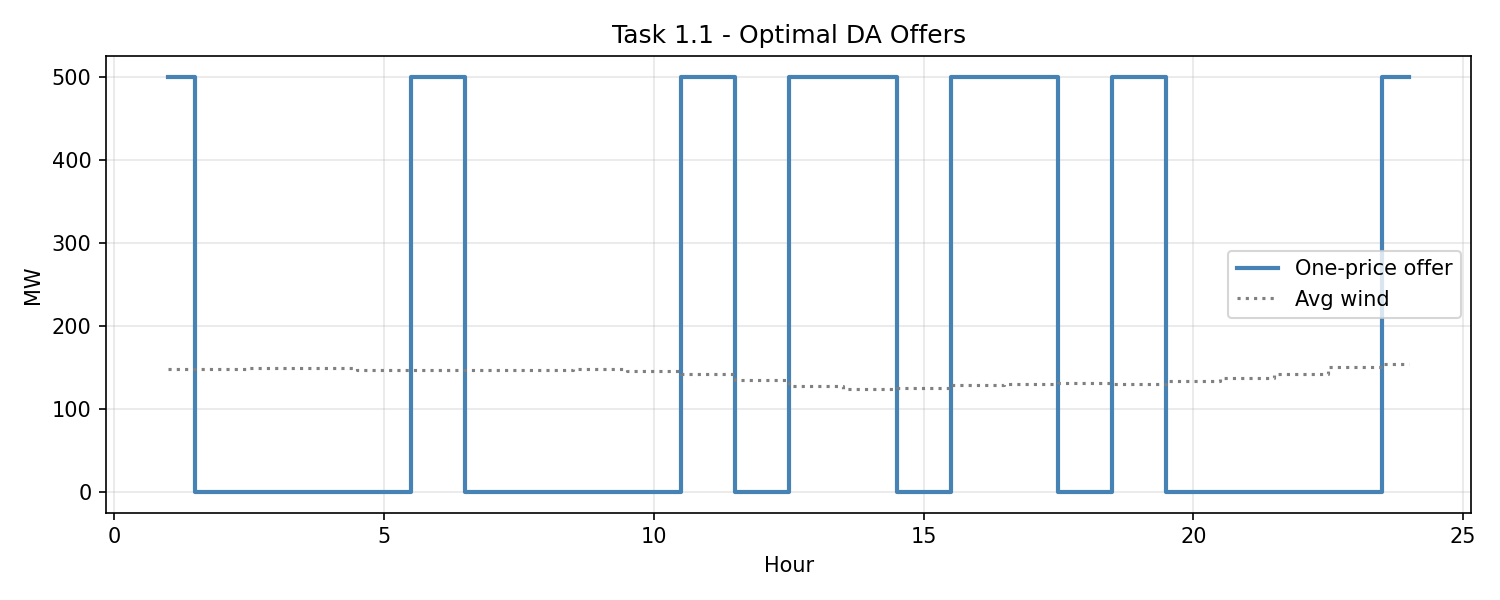
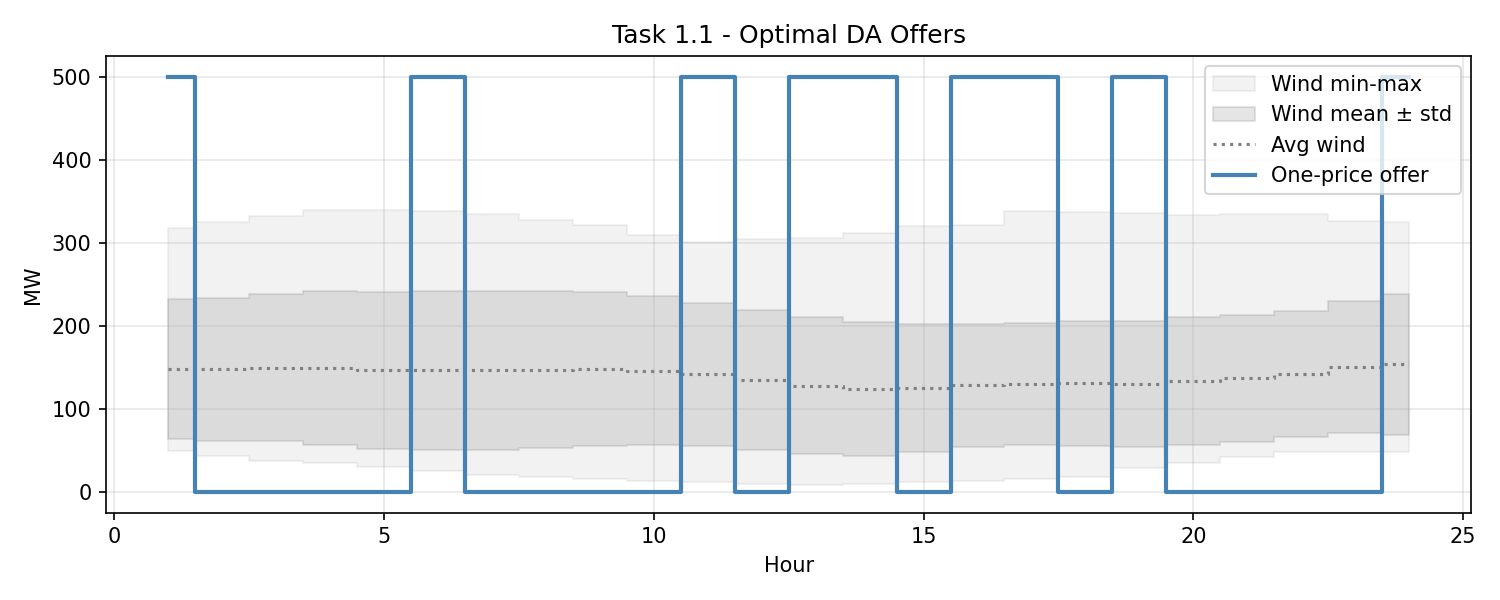
update plot step 1

Changed region(s): [[0.092, 0.39, 0.9813, 0.78], [0.7973, 0.09, 0.9813, 0.33]]

diff --git a/step1_task_1_and_2.py b/step1_task_1_and_2.py
@@ -108,14 +108,29 @@ def solve_two_price(scenarios, capacity=500):
 
     exp_profit = sum(s["prob"] * p for s, p in zip(scenarios, profits))
     return q_opt, exp_profit, profits
+def get_wind_stats(scenarios):
+    wind_data = np.array([s["wind"] for s in scenarios])
+
+    avg_wind = np.mean(wind_data, axis=0)
+    std_wind = np.std(wind_data, axis=0)
+    wind_min = np.min(wind_data, axis=0)
+    wind_max = np.max(wind_data, axis=0)
+
+    return avg_wind, std_wind, wind_min, wind_max
+
 
 def plot_task_results(q, profits, exp_profit, scenarios, task_name, offer_label, color, linestyle="-"):
     hours = np.arange(1, 25)
-    avg_wind = np.mean([s["wind"] for s in scenarios], axis=0)
+    avg_wind, std_wind, wind_min, wind_max = get_wind_stats(scenarios)
 
     plt.figure(figsize=(10, 4))
-    plt.step(hours, q, where="mid", label=offer_label, linewidth=2, color=color, linestyle=linestyle)
+
+    plt.fill_between(hours, wind_min, wind_max, step="mid", color="gray", alpha=0.10, label="Wind min-max")
+    plt.fill_between(hours, avg_wind - std_wind, avg_wind + std_wind,
+                     step="mid", color="gray", alpha=0.20, label="Wind mean ± std")
     plt.step(hours, avg_wind, where="mid", label="Avg wind", linewidth=1.5, linestyle=":", color="gray")
+    plt.step(hours, q, where="mid", label=offer_label, linewidth=2, color=color, linestyle=linestyle)
+
     plt.xlabel("Hour")
     plt.ylabel("MW")
     plt.title(f"{task_name} - Optimal DA Offers")
@@ -152,12 +167,18 @@ def plot_task_results(q, profits, exp_profit, scenarios, task_name, offer_label,
 
 def plot_offer_comparison(q1, q2, scenarios):
     hours = np.arange(1, 25)
-    avg_wind = np.mean([s["wind"] for s in scenarios], axis=0)
+    avg_wind, std_wind, wind_min, wind_max = get_wind_stats(scenarios)
 
     plt.figure(figsize=(10, 4))
+
+    plt.fill_between(hours, wind_min, wind_max, step="mid", color="gray", alpha=0.10, label="Wind min-max")
+    plt.fill_between(hours, avg_wind - std_wind, avg_wind + std_wind,
+                     step="mid", color="gray", alpha=0.20, label="Wind mean ± std")
+    plt.step(hours, avg_wind, where="mid", label="Avg wind", linewidth=1.5, linestyle=":", color="gray")
+
     plt.step(hours, q1, where="mid", label="Task 1.1", linewidth=2, color="steelblue")
     plt.step(hours, q2, where="mid", label="Task 1.2", linewidth=2, linestyle="--", color="darkorange")
-    plt.step(hours, avg_wind, where="mid", label="Avg wind", linewidth=1.5, linestyle=":", color="gray")
+
     plt.xlabel("Hour")
     plt.ylabel("MW")
     plt.title("DA Offer Comparison")
